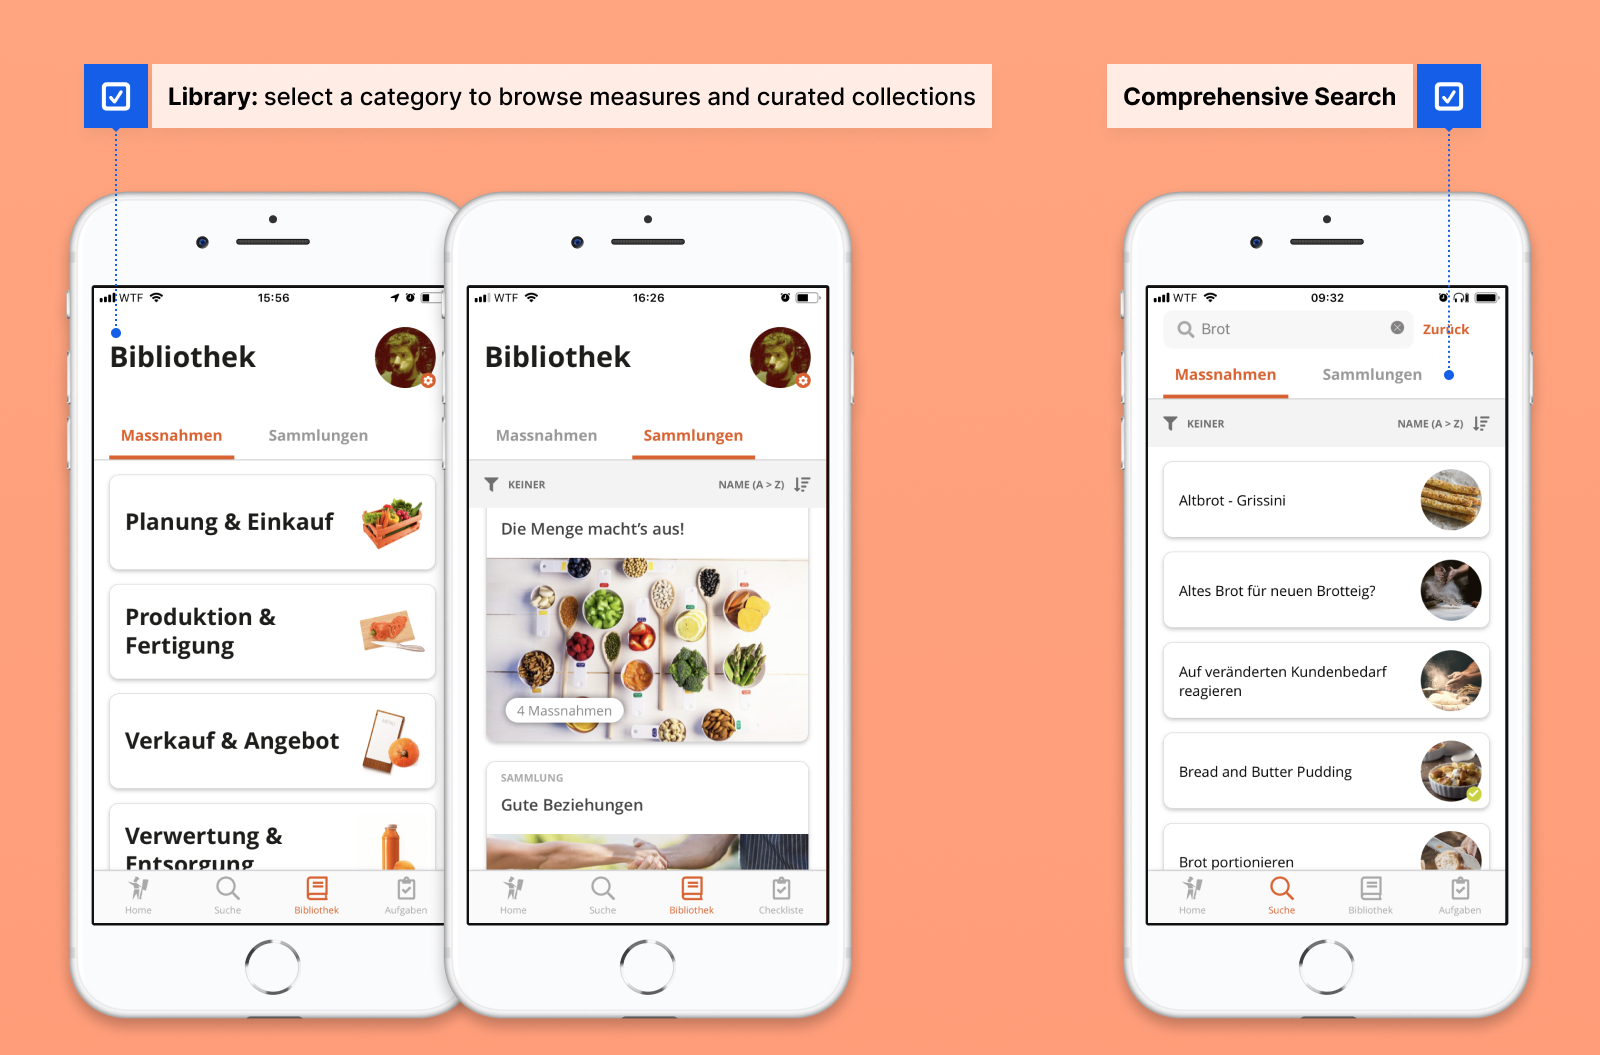
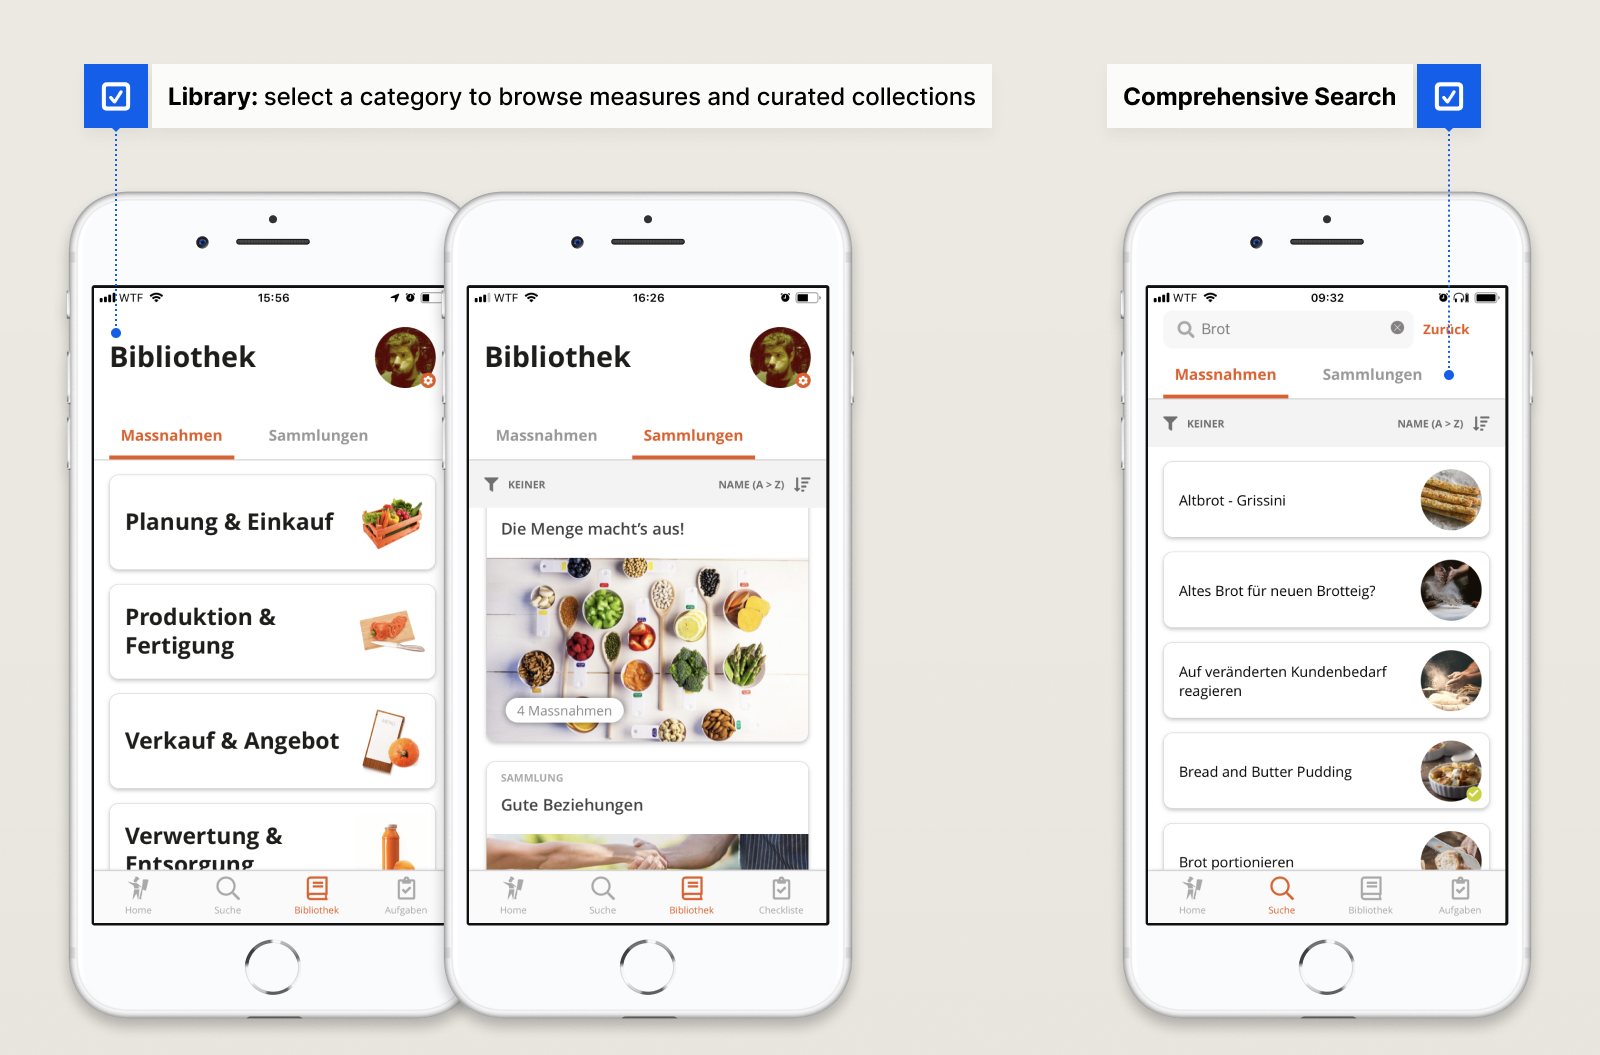
Case studies: re-export Food Save and MyFoodways images with updated Figma background
Miguel refreshed the frame background in both Figma files; re-exported every
frame already wired into the site and overwrote the existing assets in place.
Also renames the docs/old versions folder to match Miguel's local rename.

diff --git a/HANDOFF.md b/HANDOFF.md
@@ -1,6 +1,6 @@
 # Handoff
 
-Last updated: 2026-08-29 (session 18)
+Last updated: 2026-08-31 (session 19)
 
 ## Where we are
 
@@ -11,6 +11,14 @@ The staging deploy emits `<meta name="robots" content="noindex">` on every page 
 Astro is configured with `site: 'https://dgigiu.github.io'` and `base: '/mj-portfolio'`. All internal links use the normalized base exported from [src/lib/paths.ts](src/lib/paths.ts).
 
 Build is clean (`npm run build` → 6 pages, 0 errors / 0 warnings).
+
+## What changed in this session (2026-08-31, session 19)
+
+Miguel updated the background on the Figma frames for Food Save and MyFoodways; re-exported every frame already wired into the site for both cases and overwrote the existing files in place (same filenames, same node IDs as prior sessions, no mdx changes needed). Build clean (7 pages, 0/0/0), all images verified 200 with correct dimensions via the dev server.
+
+- **Food Save** (`RqT7cSB5meoG2VQu7ggWNo`, page "version 2"): re-exported `FS-02-library`, `FS-03-measure-detail`, `FS-04-tasklist`, `FS-05-home` (PNG, 1600×1055). `FS-00-cover-banner.jpg` and `FS-00-cover-thumb.jpg` also re-exported but came back byte-identical to the existing files, the cover frames weren't touched by this background update.
+- **MyFoodways** (`m1vVaKCwVkvG4AtieNx7NW`, page "v2", file key newly recorded here since it wasn't in HANDOFF before): re-exported all nine frames, `MFW-00-cover-banner.jpg`/`MFW-00-cover-thumb.jpg` (JPG, 1920×960 / 1200×900) and `MFW-01-product` through `MFW-08-post-launch-changes` (PNG, native frame sizes). All changed.
+- Also resolved the myfoodways `recipe2` open item from session 17/18 and cleaned the stale "Let's cook" second-screen paragraph out of `docs/Case Studies/cs-myfoodways-app.md` (gitignored staging doc, doc tidiness only, no code change).
 
 ## What changed in this session (2026-08-29, session 18)
 
@@ -35,7 +43,7 @@ Full resync of [myfoodways.mdx](src/content/case-studies/myfoodways.mdx) from Mi
 
 ### Open item for Miguel
 
-- **`MFW-05-flexible-recipe2.png` still doesn't exist.** The doc's Flexible recipe flow section still narrates a second image after the "Let's cook" MVP paragraph (a "Let's cook" final screen with leftover/storage tips), but no file for it was ever re-exported — Miguel confirmed recipe2 was meant to replace recipe as a single updated image, not exist as a second screen, so this build uses just `MFW-05-flexible-recipe.png` and the follow-on paragraph runs as plain text with no second figure. If a second screen is still wanted there, export `MFW-05-flexible-recipe2.png` and say so and I'll add the figure back.
+- ~~`MFW-05-flexible-recipe2.png` still doesn't exist~~ — resolved (session 19, 2026-08-31): recipe2 was never a second screen, it was a newer version of the same recipe image. `MFW-05-flexible-recipe.png` is the current, correct file; no second figure needed. The doc's `cs-myfoodways-app.md` still has a stale "Let's cook" second-screen paragraph and `FIGMA:MFW-05-flexible-recipe2` placeholder left over from before this was resolved (gitignored staging file, not cleaned up).
 - ~~The other two case studies (food-save, team-files) still point `thumbnail`/`banner` at their old single hero-cover placeholder~~ — food-save got its real images and two-image cover treatment in session 18. **team-files** still points `thumbnail`/`banner` at its old single `TF-01-hero-cover.png` placeholder; same treatment needed when its new images land.
 
 ## What changed in this session (2026-08-28, session 16)
